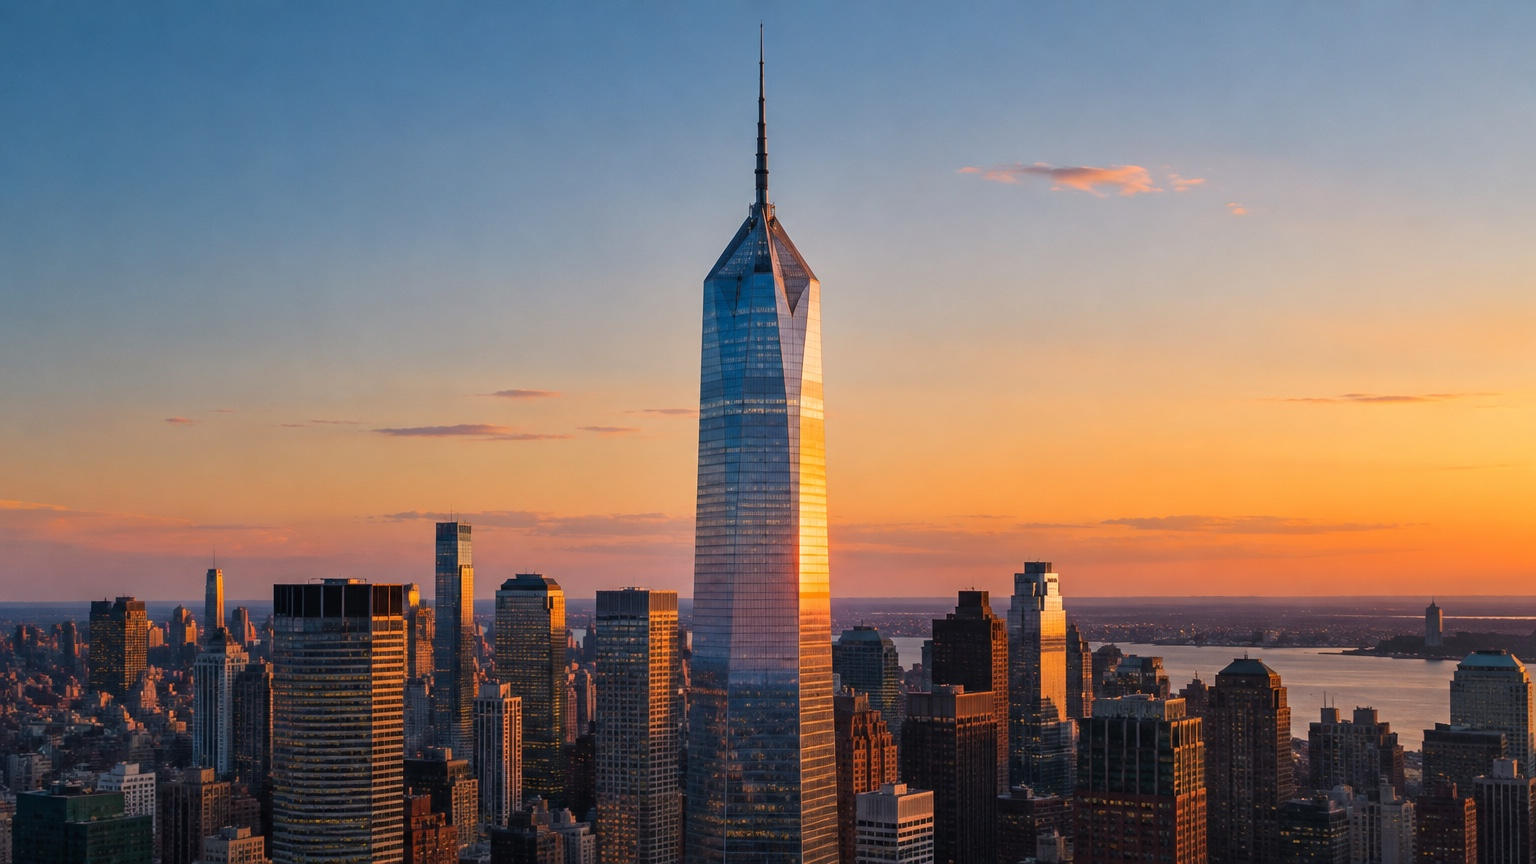
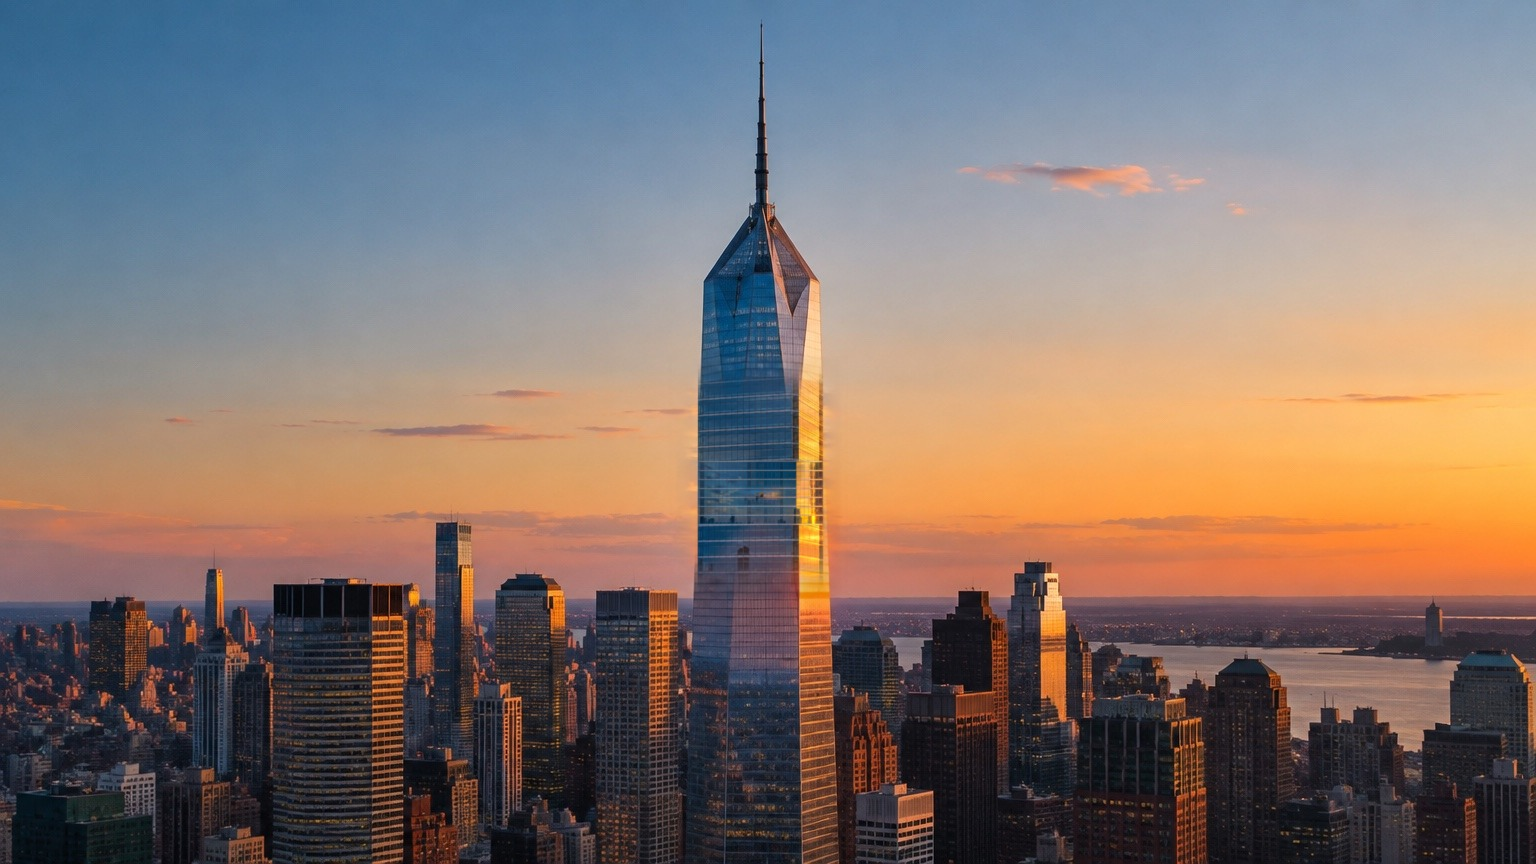
Blend the landing zoom photos so the hand-off between them is hard to see
Each closer photo now shares the farther photo's content around its edges,
with soft fades instead of hard rectangles, and the sky comes from the wide shot.

Changed region(s): [[0.4375, 0.4375, 0.5625, 0.6875]]

diff --git a/public/landing.js b/public/landing.js
@@ -28,24 +28,27 @@ if (tbody) {
 }
 
 // ---- scroll scene ----
-// One continuous camera. The photos (each 1536x864) are nested: photo 2 sits inside the tower in photo 1, photo 3
-// sits inside photo 2's lit window, and the Tally screen sits on photo 3's monitor. Nothing cuts or crossfades
-// full-screen: each closer photo is already in place, small, and grows. All positions are in photo-1 pixels ("px1").
+// One continuous camera over six nested photos (each 1536x864), from the whole tower down to the office monitor.
+// The photos were prepared so that wherever two overlap they hold the same picture (each closer photo is baked,
+// shrunk, into the middle of the farther one), so swapping from one to the next mid-zoom changes nothing on screen.
 const PW = 1536, PH = 864;
-// nest(parent, child): child point `at` lands on parent point `on`; the child spans `scale` of the parent's width.
-// Each step is about 3x, so no photo is ever shown much bigger than its real pixels. Points were measured from the
-// lit window (or tower edges) in each photo.
-const L1 = {o: [0, 0], s: 1}; // whole tower
-const LS = nest(L1, {on: [764, 520], at: [759, 406], scale: .3125}); // tower shaft
-const LW = nest(LS, {on: [759, 406], at: [766, 440], scale: .33}); // glass wall
-const L2 = nest(LW, {on: [766, 440], at: [762, 430], scale: 37 / 118}); // a few floors, one lit window
-const LP = nest(L2, {on: [762, 430], at: [766, 318], scale: 118 / 480}); // the lit window up close
-const L3 = nest(LP, {on: [766, 318], at: [750, 382], scale: 480 / 1020}); // the office through the glass
-const LAYERS = [L1, LS, LW, L2, LP, L3];
-const SCR = [578, 270, 926, 468]; // photo 3's monitor screen (photo-3 pixels)
+// where each photo sits inside the one before, in the parent's pixels: [x, y, x scale, y scale]
+const REL = [
+  [527.5, 346, .30312, .30312], // tower shaft in the skyline
+  [526.3, 340.03, .318, .31595], // glass wall in the shaft
+  [510.25, 362.6, .33454, .2555], // a few floors in the wall (floor lines matched)
+  [564.24, 325.7, .26357, .347], // the lit window up close
+  [412.27, 198.72, .47297, .47297], // the office through the glass
+];
+const LAYERS = [{o: [0, 0], sx: 1, sy: 1}];
+for (const [ox, oy, sx, sy] of REL) {
+  const p = LAYERS[LAYERS.length - 1];
+  LAYERS.push({o: [p.o[0] + ox * p.sx, p.o[1] + oy * p.sy], sx: p.sx * sx, sy: p.sy * sy});
+}
+const L3 = LAYERS[LAYERS.length - 1];
+const SCR = [578, 270, 926, 468]; // the office monitor's screen (office-photo pixels)
+const toPx1 = (l, q) => [l.o[0] + q[0] * l.sx, l.o[1] + q[1] * l.sy];
 const TARGET = toPx1(L3, [(SCR[0] + SCR[2]) / 2, (SCR[1] + SCR[3]) / 2]);
-function nest(par, {on, at, scale}) { const s = par.s * scale; const p = toPx1(par, on); return {o: [p[0] - at[0] * s, p[1] - at[1] * s], s}; }
-function toPx1(l, q) { return [l.o[0] + q[0] * l.s, l.o[1] + q[1] * l.s]; }
 
 const scene = $('.zoom'), shots = [...document.querySelectorAll('.shot')], screen = $('.screen'), screenBg = $('.screen-bg');
 const body = $('.mock-body'), feed = $('.mock-feed'), veil = $('.veil'), mock = $('.screen .mock');
@@ -54,27 +57,15 @@ const reduce = matchMedia('(prefers-reduced-motion: reduce)');
 const clamp = (v, a = 0, b = 1) => Math.min(b, Math.max(a, v));
 const seg = (p, a, b) => clamp((p - a) / (b - a));
 const inOut = t => t < .5 ? 4 * t * t * t : 1 - (-2 * t + 2) ** 3 / 2;
-const lseg = (v, a, b) => clamp(Math.log(v / a) / Math.log(b / a)); // progress on a zoom (log) scale
 const total = () => Math.max(1, scene.offsetHeight - innerHeight);
 
 let W = 0, VW = 0, VH = 0, ZEND = 1;
 function measure() {
   VW = innerWidth; VH = screen.offsetHeight; W = shots[0].offsetWidth;
   // end zoom: photo 3's screen covers the viewport, so the Tally screen ends at exactly scale 1
-  const sw = (SCR[2] - SCR[0]) * L3.s * W / PW, sh = (SCR[3] - SCR[1]) * L3.s * W / PW;
+  const sw = (SCR[2] - SCR[0]) * L3.sx * W / PW, sh = (SCR[3] - SCR[1]) * L3.sy * W / PW;
   ZEND = Math.max(VW / sw, VH / sh);
 }
-
-// a feathered rectangle mask in the element's own % coordinates
-function rectMask(el, x0, x1, y0, y1, f) {
-  const m = `linear-gradient(to right, transparent ${x0}%, #000 ${x0 + f}%, #000 ${x1 - f}%, transparent ${x1}%), ` +
-            `linear-gradient(to bottom, transparent ${y0}%, #000 ${y0 + f * 1.78}%, #000 ${y1 - f * 1.78}%, transparent ${y1}%)`;
-  el.style.webkitMaskImage = el.style.maskImage = m;
-  el.style.webkitMaskComposite = 'source-in'; el.style.maskComposite = 'intersect';
-}
-// a soft round mask: solid to a%, fading out by b% (of the distance to the box corner)
-function blobMask(el, a, b) { el.style.webkitMaskImage = el.style.maskImage = `radial-gradient(ellipse farthest-corner at 50% 50%, #000 ${a}%, transparent ${b}%)`; el.style.webkitMaskComposite = el.style.maskComposite = ''; }
-function clearMask(el) { el.style.webkitMaskImage = el.style.maskImage = 'none'; }
 
 function frame() {
   queued = false;
@@ -92,29 +83,20 @@ function frame() {
   const F = [TARGET[0] - (D[0] - VW / 2) / k, TARGET[1] - (D[1] - VH / 2) / k]; // photo-1 point at screen center
   const toScreen = pt => [VW / 2 + (pt[0] - F[0]) * k, VH / 2 + (pt[1] - F[1]) * k];
 
-  // each closer photo grows out of the middle of the one before: soft and feathered at first, sharp once it fills the
-  // screen, while the photo it replaces goes out of focus. A sharp edge never meets a blurred one.
-  const grow = LAYERS.map(l => lseg(l.s * Z, .15, 1.6));
-  const feather = e => 10 + 15 * (1 - e); // soft edge width, % of the photo's width
-  // a photo is fully covered once the next photo's solid (unfeathered) middle spans the whole screen
-  const fills = i => {
-    const l = LAYERS[i], S = l.s * Z, [x, y] = toScreen(l.o), w = S * W, h = w * 9 / 16, f = feather(grow[i]) / 100 * w;
-    return x + f <= 0 && y + f <= 0 && x + w - f >= VW && y + h - f >= VH;
-  };
+  // a photo is drawn once it is big enough to add detail, and dropped once the next photo covers the screen
   LAYERS.forEach((l, i) => {
-    const el = shots[i], S = l.s * Z; // S = this photo's own zoom (1 = exactly covers the viewport box)
-    const [x, y] = toScreen(l.o);
-    el.style.transform = `translate(${x.toFixed(2)}px, ${y.toFixed(2)}px) scale(${S.toFixed(5)})`;
-    const last = i === LAYERS.length - 1;
-    el.style.display = (!last && fills(i + 1)) || S * W < 3 ? 'none' : '';
-    const e = i ? grow[i] : 1;
-    const blur = (1 - e) * 4 + (last ? clamp((S - 1.8) / 2) * 4 : grow[i + 1] * 6); // in screen px
-    el.style.filter = blur > .05 ? `blur(${(blur / S).toFixed(3)}px)` : 'none'; // blur is in local px, so divide by S
-    if (!i) return;
-    el.style.opacity = rm ? 1 : Math.min(1, e * 4).toFixed(3);
-    if (last && e >= 1) clearMask(el); else rectMask(el, 0, 100, 0, 100, feather(e));
+    const el = shots[i], Sx = l.sx * Z, Sy = l.sy * Z, [x, y] = toScreen(l.o);
+    el.style.transform = `translate(${x.toFixed(2)}px, ${y.toFixed(2)}px) scale(${Sx.toFixed(5)}, ${Sy.toFixed(5)})`;
+    const n = LAYERS[i + 1], small = Sx * W / VW;
+    let hide = i > 0 && small < .12;
+    if (n) {
+      const [nx, ny] = toScreen(n.o);
+      hide = hide || (nx <= 0 && ny <= 0 && nx + n.sx * Z * W >= VW && ny + n.sy * Z * W * 9 / 16 >= VH);
+    }
+    el.style.display = hide ? 'none' : '';
+    if (i) el.style.opacity = rm ? 1 : clamp((small - .12) / .13).toFixed(3);
   });
-  const S3 = L3.s * Z;
+  const S3 = L3.sx * Z;
 
   // the Tally screen rides on photo 3's monitor; a dark backing covers the AI-drawn screen underneath
   const a = toScreen(toPx1(L3, [SCR[0], SCR[1]])), b = toScreen(toPx1(L3, [SCR[2], SCR[3]]));
